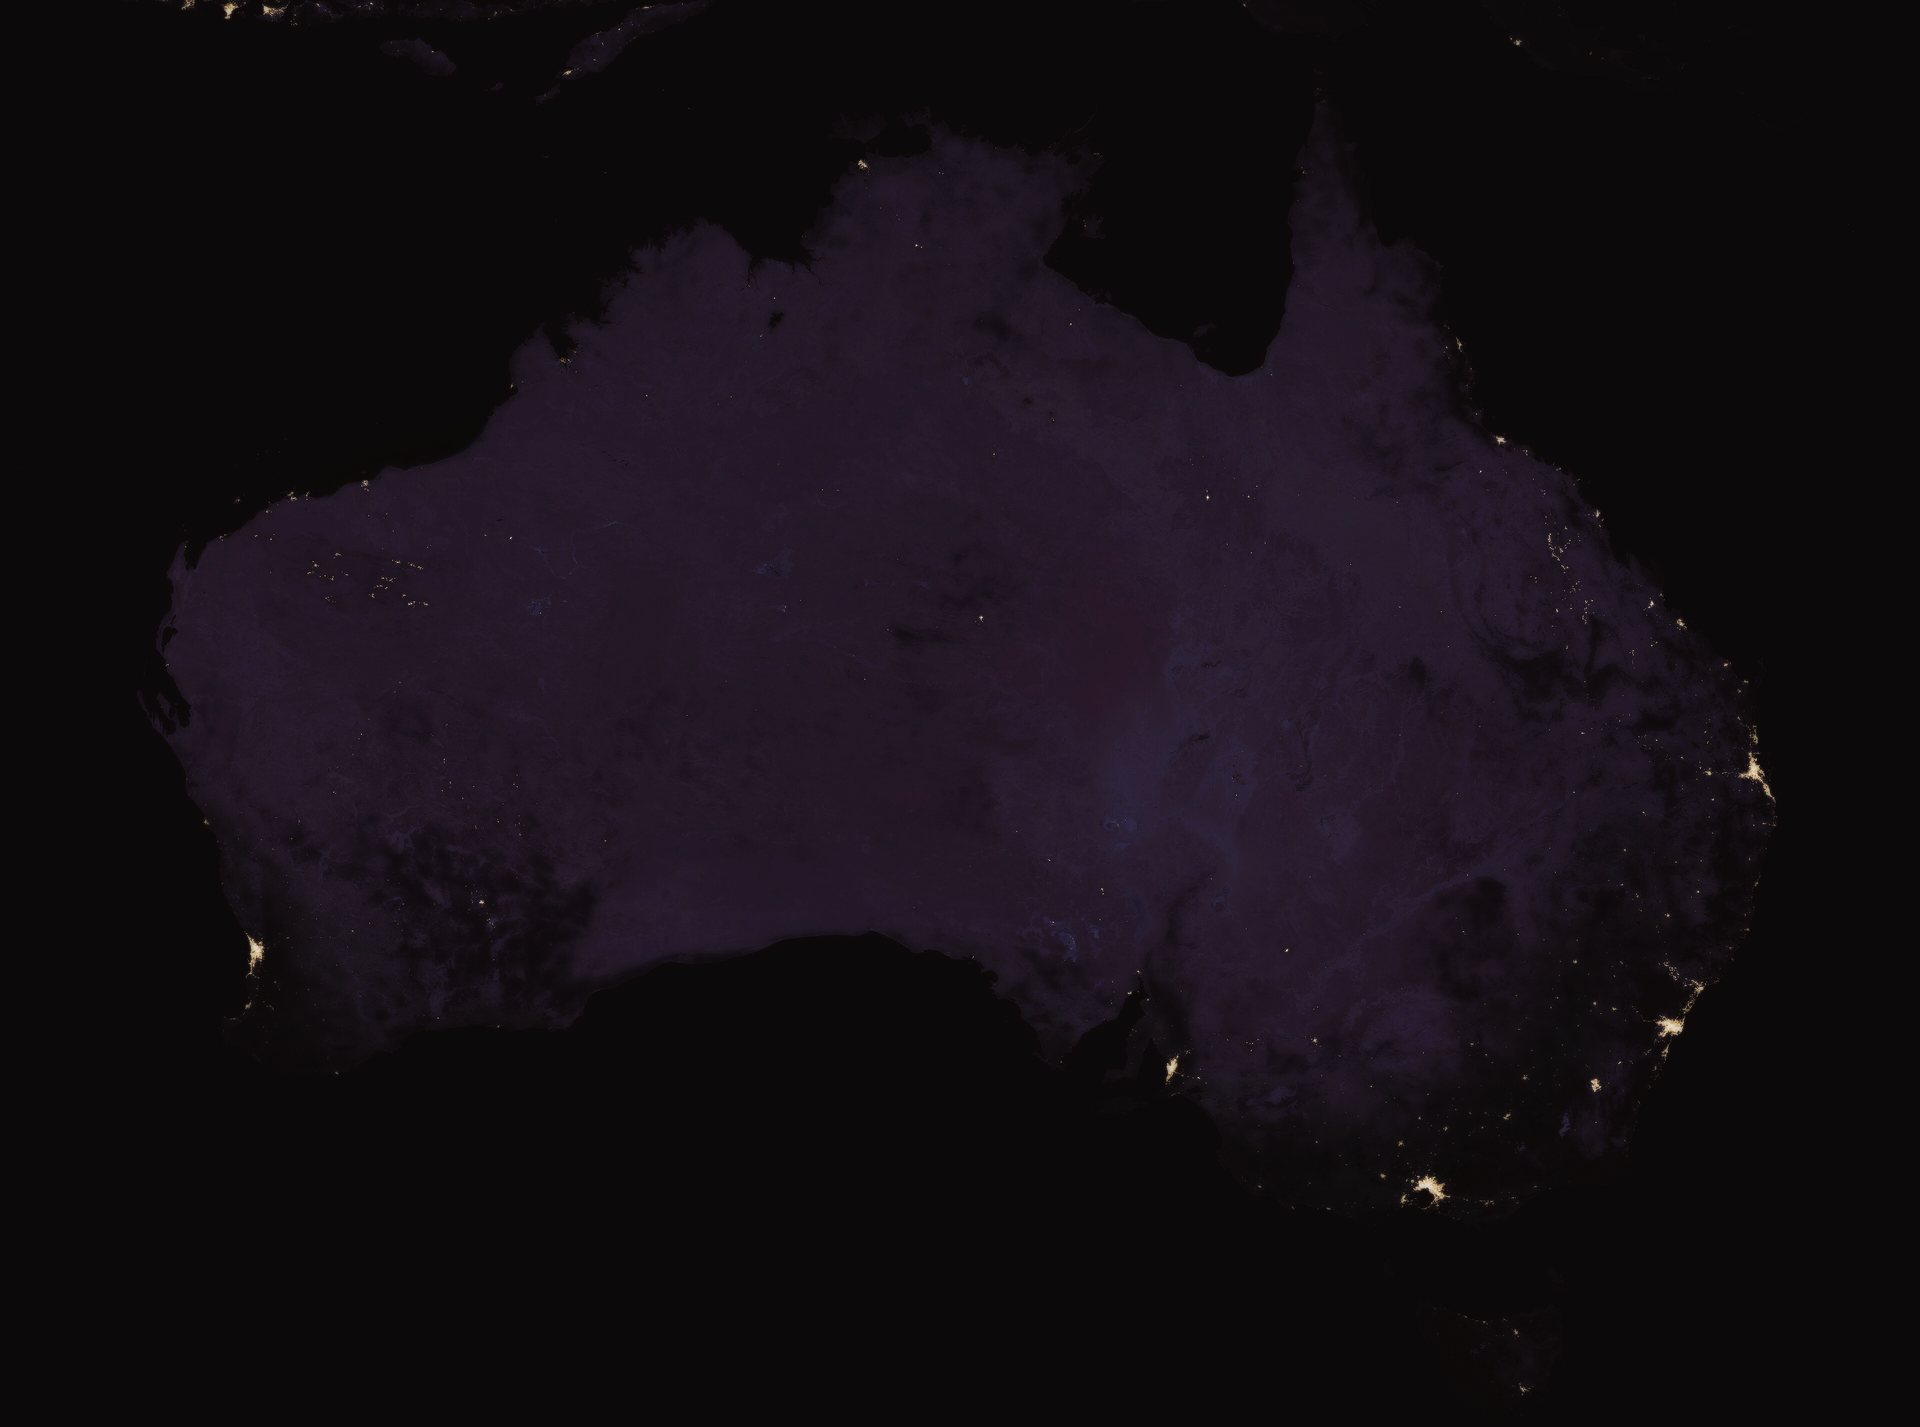
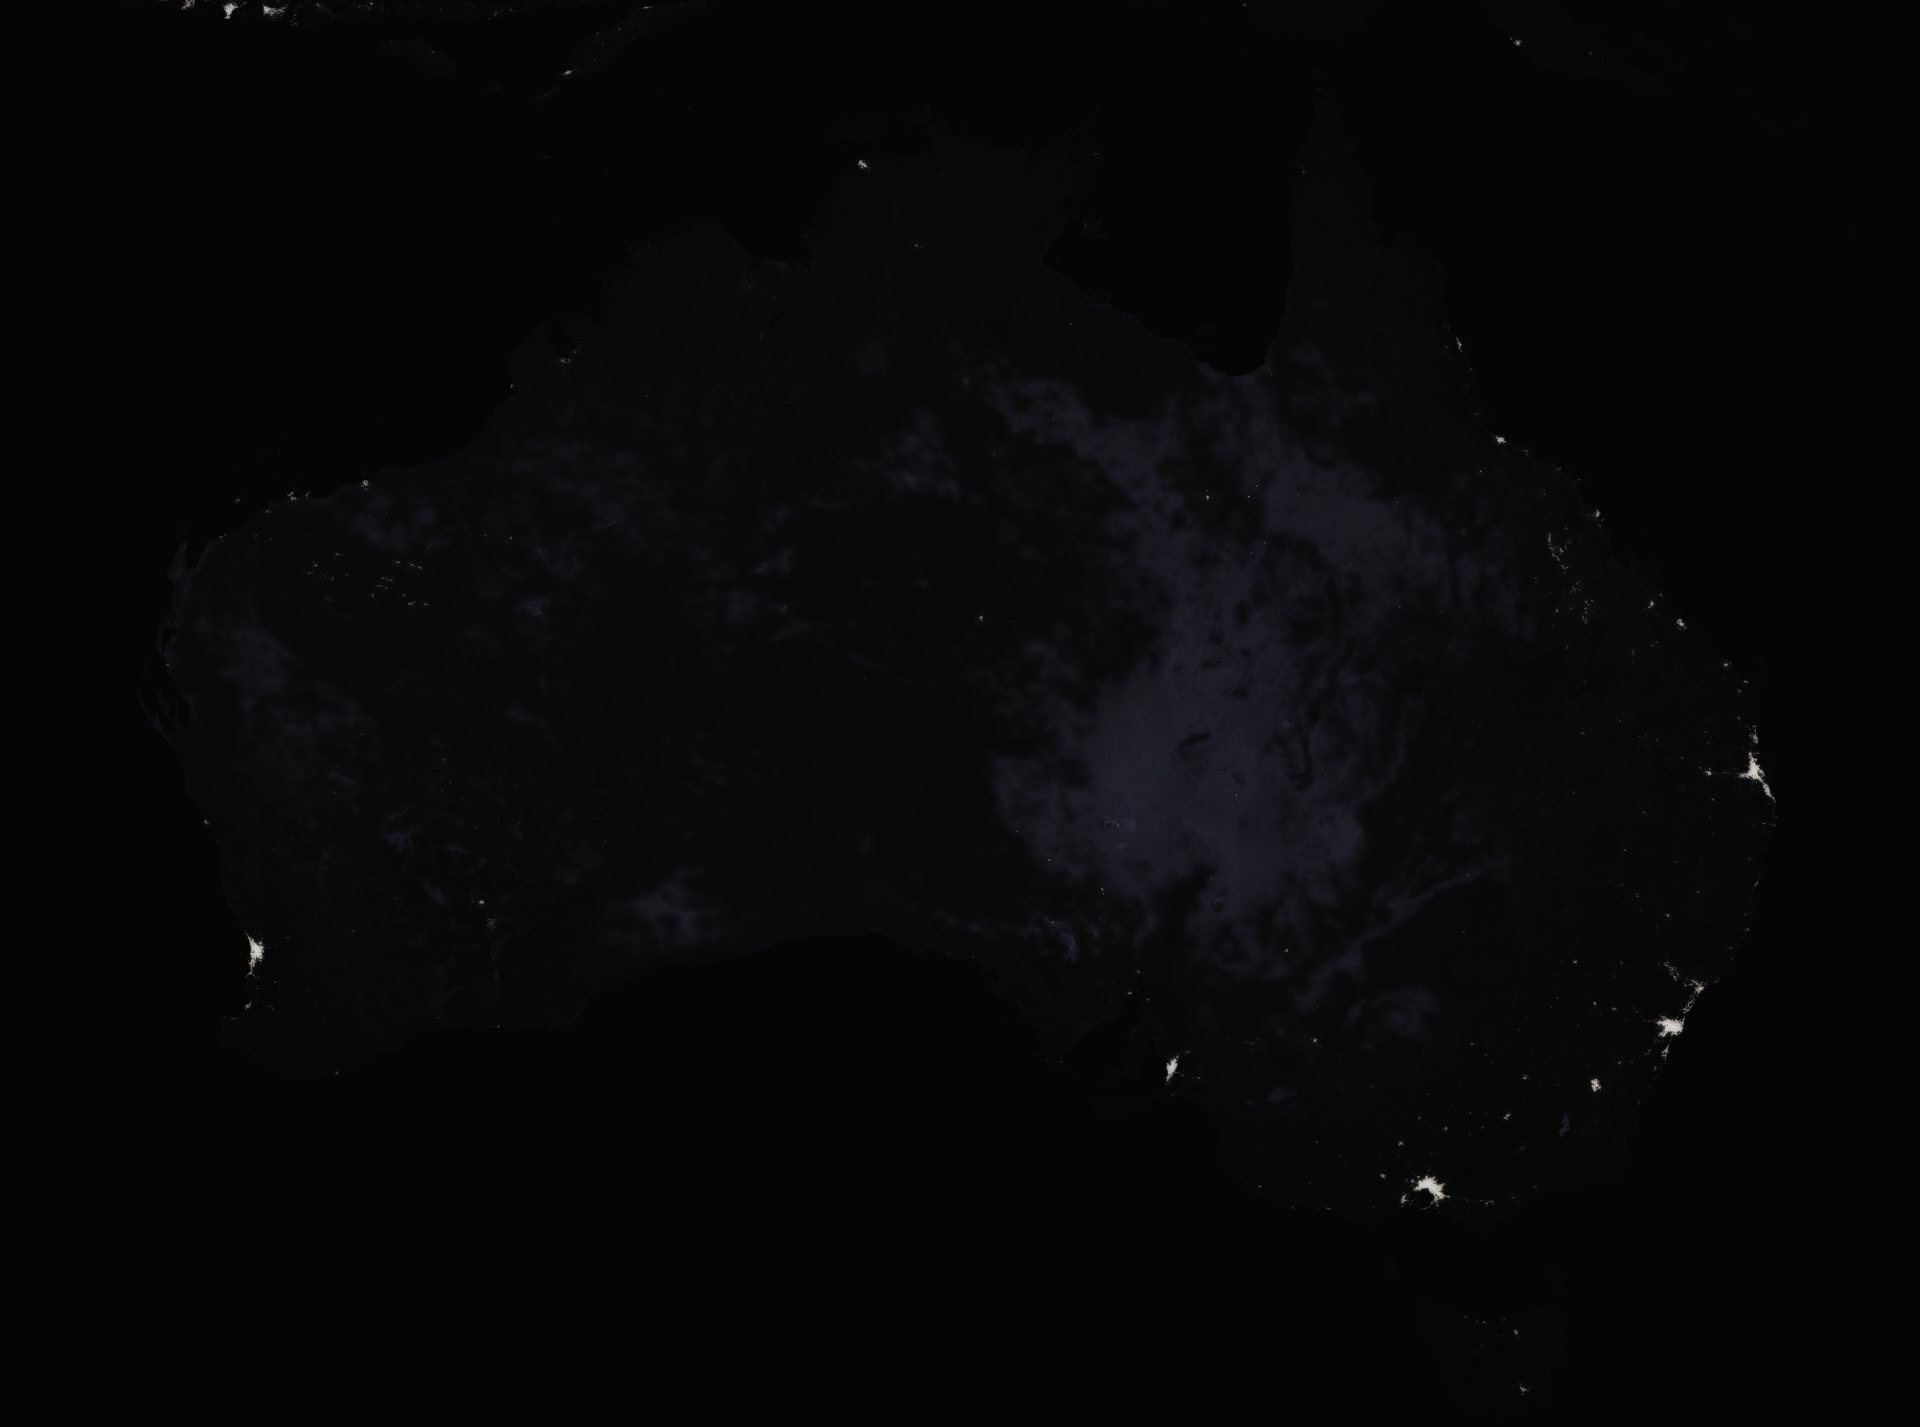
Map: Zombie (Cranberries) — desaturated, not a costume.
1994 protest song, not Halloween. No gold-face, no blood wash, no lyrics. Interior unlit. Appin history is not a clip.

Changed region(s): [[0.0938, 0.0925, 0.875, 0.7708]]

diff --git a/index.html b/index.html
@@ -46,7 +46,7 @@
 <div class="wrap">
   <figure class="map-plate hero-plate">
     <img src="images/map-australia-night.jpg" alt="Australia at night — city lights on a dark continent. NASA Black Marble, Suomi NPP VIIRS, 2016 composite.">
-    <figcaption>The map. NASA Black Marble 2016 — Suomi NPP VIIRS. Public domain. Belt: science. Hometown dusk. Interior unlit. Not a castle. Not a facility. Not a film still.</figcaption>
+    <figcaption>The map. NASA Black Marble 2016 — Suomi NPP VIIRS. Public domain. Belt: science. Desaturated. Interior unlit. Not a war clip. Not a facility. Not a film still.</figcaption>
   </figure>
 </div>
 
@@ -57,7 +57,7 @@
     <p>They were wrong about the coastline. They were right that something had to be there.</p>
     <p>That instinct is worth taking seriously again, at a different scale. A civilisation reaching for more than one world has the same problem the old maps had: everything is concentrated at the top, and the bottom is a blank that someone assumes will sort itself out. The blank is where the redundancy has to go.</p>
     <p>A night survey lights the coasts. The interior, and the people who were here first, do not show as gold. They are not a blank. Free, Prior and Informed Consent stays above the legal minimum — a standard, not a chorus.</p>
-    <p class="source-link">Map: NASA Black Marble 2016 (Suomi NPP VIIRS). Public domain. Credit: NASA Earth Observatory / Joshua Stevens, VIIRS data Miguel Román, NASA GSFC. Presentation: hometown dusk on the coasts. Interior left unlit. No cities added. Home town. Not a castle. The map is tonight.</p>
+    <p class="source-link">Map: NASA Black Marble 2016 (Suomi NPP VIIRS). Public domain. Credit: NASA Earth Observatory / Joshua Stevens, VIIRS data Miguel Román, NASA GSFC. Presentation: 1994, desaturated. Interior left unlit. No cities added. This is not a costume. The dead are not a hook. The map is tonight.</p>
   </div>
 </section>
 
